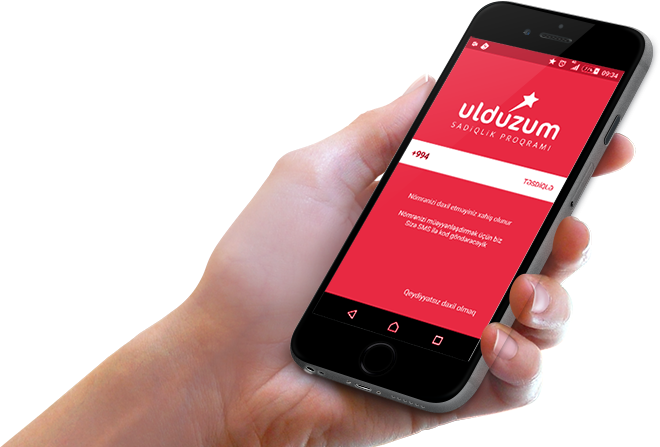
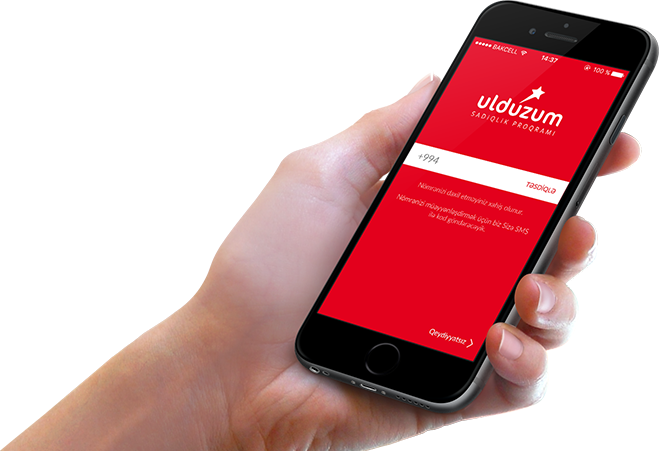
add hand

diff --git a/src/scss/responsive/app.scss b/src/scss/responsive/app.scss
@@ -4,7 +4,8 @@
 		padding-right: 80px;
 	}
 	.tab-item{
-		left: 177px;
+		left: 77px;
+		top: 122px;
 	}
 }
 
@@ -17,15 +18,15 @@
 		padding-right: 0;
 	}
 	.tab-item {
-		left: 113px;
-		top: 120px;
+		left: 11px;
+		top: 124px;
 	}
 }
 
 @media screen and (max-width: 1200px) {
 	.applic__img {
-		left: -352px;
-		width: 790px;
+		left: -262px;
+		width: 691px;
 	}
 	.applic-block{
 		width: 450px;
@@ -35,8 +36,8 @@
 		width: 360px;
 	}
 	.tab-item{
-		left: 40px;
-		top: 172px;
+		left: 36px;
+		top: 178px;
 	}
 }
 

diff --git a/src/works.html b/src/works.html
@@ -53,7 +53,6 @@
             <li class="works-item-2">Ulduzum proqramının yenilikləri barədə məlumat əldə etmək üçün <b>“3”</b> yazıb <span class="ussd">5555</span> qısa nömrəsinə SMS göndərin.</li>
             <li class="works-item-2">Siz gün ərzində 10 dəfə şifrə əldə edə bilərsiniz. Hər bir şifrənin etibarlılıq müddəti 24 saatdır.</li>
         </ul>
-        <span class="ussd">*1506786786#$</span>
     </div>
 </div>
 //= templates/footer.html

diff --git a/src/app.html b/src/app.html
@@ -1,7 +1,7 @@
 //= templates/header.html
 <div class="applic">
     <div class="container">
-        <img class="applic__img" src="images/app-hand-1.png" alt="">
+        <img class="applic__img" src="images/app-hand-main.png" alt="">
         <h2 class="applic__head">Mobil əlavə</h2>
         <div class="applic-wrap clearfix">
             <div class='app-tabs applic-block'>

diff --git a/src/scss/templates/app.scss b/src/scss/templates/app.scss
@@ -119,7 +119,7 @@
 .tab-item{
     display: inline-block;
     position: absolute;
-    left: 176px;
+    left: 77px;
     top: 120px;
 }
 
